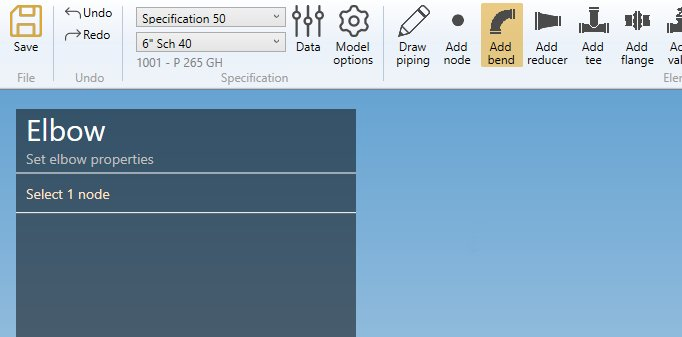
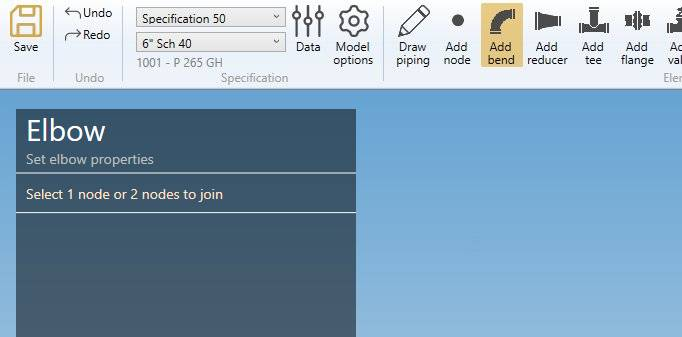
New bend creation

diff --git a/Design/Elements/Bend.md b/Design/Elements/Bend.md
@@ -10,7 +10,7 @@ grand_parent: Piping
 
 When you click on the **Add bend** button without selection, the left panel shows a message :
 
-    Select a node
+    Select a node or 2 nodes to join
 
 ![Image](../../Images/Bend1.jpg)
 
@@ -112,7 +112,6 @@ This flexibility factor will be used for all load cases.
 
 Default = 0 or blank = default special k Factor in the code.
 
-
 **ENDS FLANGED** :
 
 You can choose between :
@@ -149,7 +148,25 @@ In this example, the default values correspond to **current specification** pres
 
 ![Image](../../Images/Pipe2.jpg)
 
-## 3. Modify/Remove a bend
+### 2.4 Label
+
+You can define a label to this element. The labels are shown with the node names view button.
+
+![Image](../../Images/Label1.jpg)
+
+## 3. Create a bend with 2 points
+
+![Image](../../Images/Bend19.jpg)
+
+1. Click the **Add bend** button
+2. Select two **nodes** of coplanar elements
+3. Click the **Create** button after defining the section and the bend properties
+
+![Image](../../Images/Bend20.jpg)
+
+This will extend the 2 adjacent elements and place a bend with the desired radius.
+
+## 4. Modify/Remove a bend
 
 Change the **Selection mode** to ELEMENT and select a bend :
 

diff --git a/Design/Modification.md b/Design/Modification.md
@@ -177,13 +177,15 @@ Remove bend :
 
 ![Image](../Images/Modification15.jpg)
 
-Draw a pipe between the 2 nodes (a bend will automatically appear) :
+Select the 2 nodes :
 
-![Image](../Images/Modification16.jpg)
+![Image](../Images/Modification31.jpg)
 
-Select the node and add a bend to finalize the connection :
+Click on the *Add bend* button, set the section and the radius, click on the *Create* button :
 
-![Image](../Images/Modification17.jpg)
+![Image](../Images/Modification32.jpg)
+
+This will extend the 2 adjacent elements and place a bend with the desired radius.
 
 ## 8. Change length/direction
 
@@ -240,7 +242,7 @@ Let's try this change of direction :
 The **Shift** option offsets all following elements.
 
 {: .warning }
->ATTENTION, sometime this modification can create unwanted results, essentially due to bend definition no more compatible. You have to remove elements and rebuild the connection.
+>ATTENTION, sometime this modification can create unwanted results, essentially due to bend definition no more compatible. You have to remove elements and rebuild the connection. See §7 that show an example of how to rebuild a bend.
 
 You can **Undo** this command.
 

diff --git a/Design/Elements/Bellow.md b/Design/Elements/Bellow.md
@@ -128,6 +128,12 @@ The tables will be filled automatically.
 
 Click [here](https://documentation.metapiping.com/Settings/Databases/Components.html) for more information about creation of library of components.
 
+**Label** :
+
+You can define a label to this element. The labels are shown with the node names view button.
+
+![Image](../../Images/Label1.jpg)
+
 ---
 
 You can then define the second point of the bellow thanks to the **Orientation tool**.

diff --git a/Design/Elements/Socket.md b/Design/Elements/Socket.md
@@ -50,6 +50,12 @@ The tables will be filled automatically.
 
 Click [here](https://documentation.metapiping.com/Settings/Databases/Components.html) for more information about creation of library of components.
 
+**Label** :
+
+You can define a label to this element. The labels are shown with the node names view button.
+
+![Image](../../Images/Label1.jpg)
+
 ---
 
 You can then define the second point of the socket thanks to the **Orientation tool**.

diff --git a/Design/Elements/Structural.md b/Design/Elements/Structural.md
@@ -40,6 +40,12 @@ The **selection mode** is automatically set to **POINT**. You can so directly se
 
 You can define the **X-axis** vector by defining Xx, Xy, Xz in global coordinates.
 
+**Label** :
+
+You can define a label to this element. The labels are shown with the node names view button.
+
+![Image](../../Images/Label1.jpg)
+
 ---
 
 You can then define the second point of the structural thanks to the **Orientation tool**.

diff --git a/Design/Elements/Spring.md b/Design/Elements/Spring.md
@@ -48,6 +48,12 @@ Click [here](https://documentation.metapiping.com/Design/Specification/Data.html
 
 You can define the **X-axis** vector by defining Xx, Xy, Xz in global coordinates.
 
+**Label** :
+
+You can define a label to this element. The labels are shown with the node names view button.
+
+![Image](../../Images/Label1.jpg)
+
 ---
 
 You can then define the second point of the spring thanks to the **Orientation tool**.

diff --git a/Design/Elements/Rigid.md b/Design/Elements/Rigid.md
@@ -44,6 +44,12 @@ Click [here](https://documentation.metapiping.com/Design/Specification/Data.html
 
 You can define the **X-axis** vector by defining Xx, Xy, Xz in global coordinates.
 
+**Label** :
+
+You can define a label to this element. The labels are shown with the node names view button.
+
+![Image](../../Images/Label1.jpg)
+
 ---
 
 You can then define the second point of the rigid thanks to the **Orientation tool**.

diff --git a/Design/Elements/Beam.md b/Design/Elements/Beam.md
@@ -81,6 +81,12 @@ Based on **type**, you have to define different section properties.
 
 You can define the **X-axis** vector by defining Xx, Xy, Xz in global coordinates.
 
+**Label** :
+
+You can define a label to this element. The labels are shown with the node names view button.
+
+![Image](../../Images/Label1.jpg)
+
 ---
 
 You can then define the second point of the beam thanks to the **Orientation tool**.

diff --git a/Design/Elements/Pipe.md b/Design/Elements/Pipe.md
@@ -113,6 +113,12 @@ You can change the **specification** and **section/material** of the pipe.
 
 You can change the **X-axis** vector by defining Xx, Xy, Xz in global coordinates.
 
+**Label** :
+
+You can define a label to this element. The labels are shown with the node names view button.
+
+![Image](../../Images/Label1.jpg)
+
 **LONG WELD** (3) :
 
 You can change the **Long weld properties** :

diff --git a/Design/Elements/Reducer.md b/Design/Elements/Reducer.md
@@ -57,6 +57,12 @@ You can change the **flexibility factor** of the reducer. If blank, default valu
 
 You can change the **X-axis** vector by defining Xx, Xy, Xz in global coordinates.
 
+**Label** :
+
+You can define a label to this element. The labels are shown with the node names view button.
+
+![Image](../../Images/Label1.jpg)
+
 **LONG WELD** :
 
 You can change the **Long weld properties** :

diff --git a/Design/Elements/Flange.md b/Design/Elements/Flange.md
@@ -61,6 +61,12 @@ Click [here](https://documentation.metapiping.com/Settings/Databases/Components.
 
 You can define the **X-axis** vector by defining Xx, Xy, Xz in global coordinates.
 
+**Label** :
+
+You can define a label to this element. The labels are shown with the node names view button.
+
+![Image](../../Images/Label1.jpg)
+
 ---
 
 Click on the **Create** button to create the flange.
